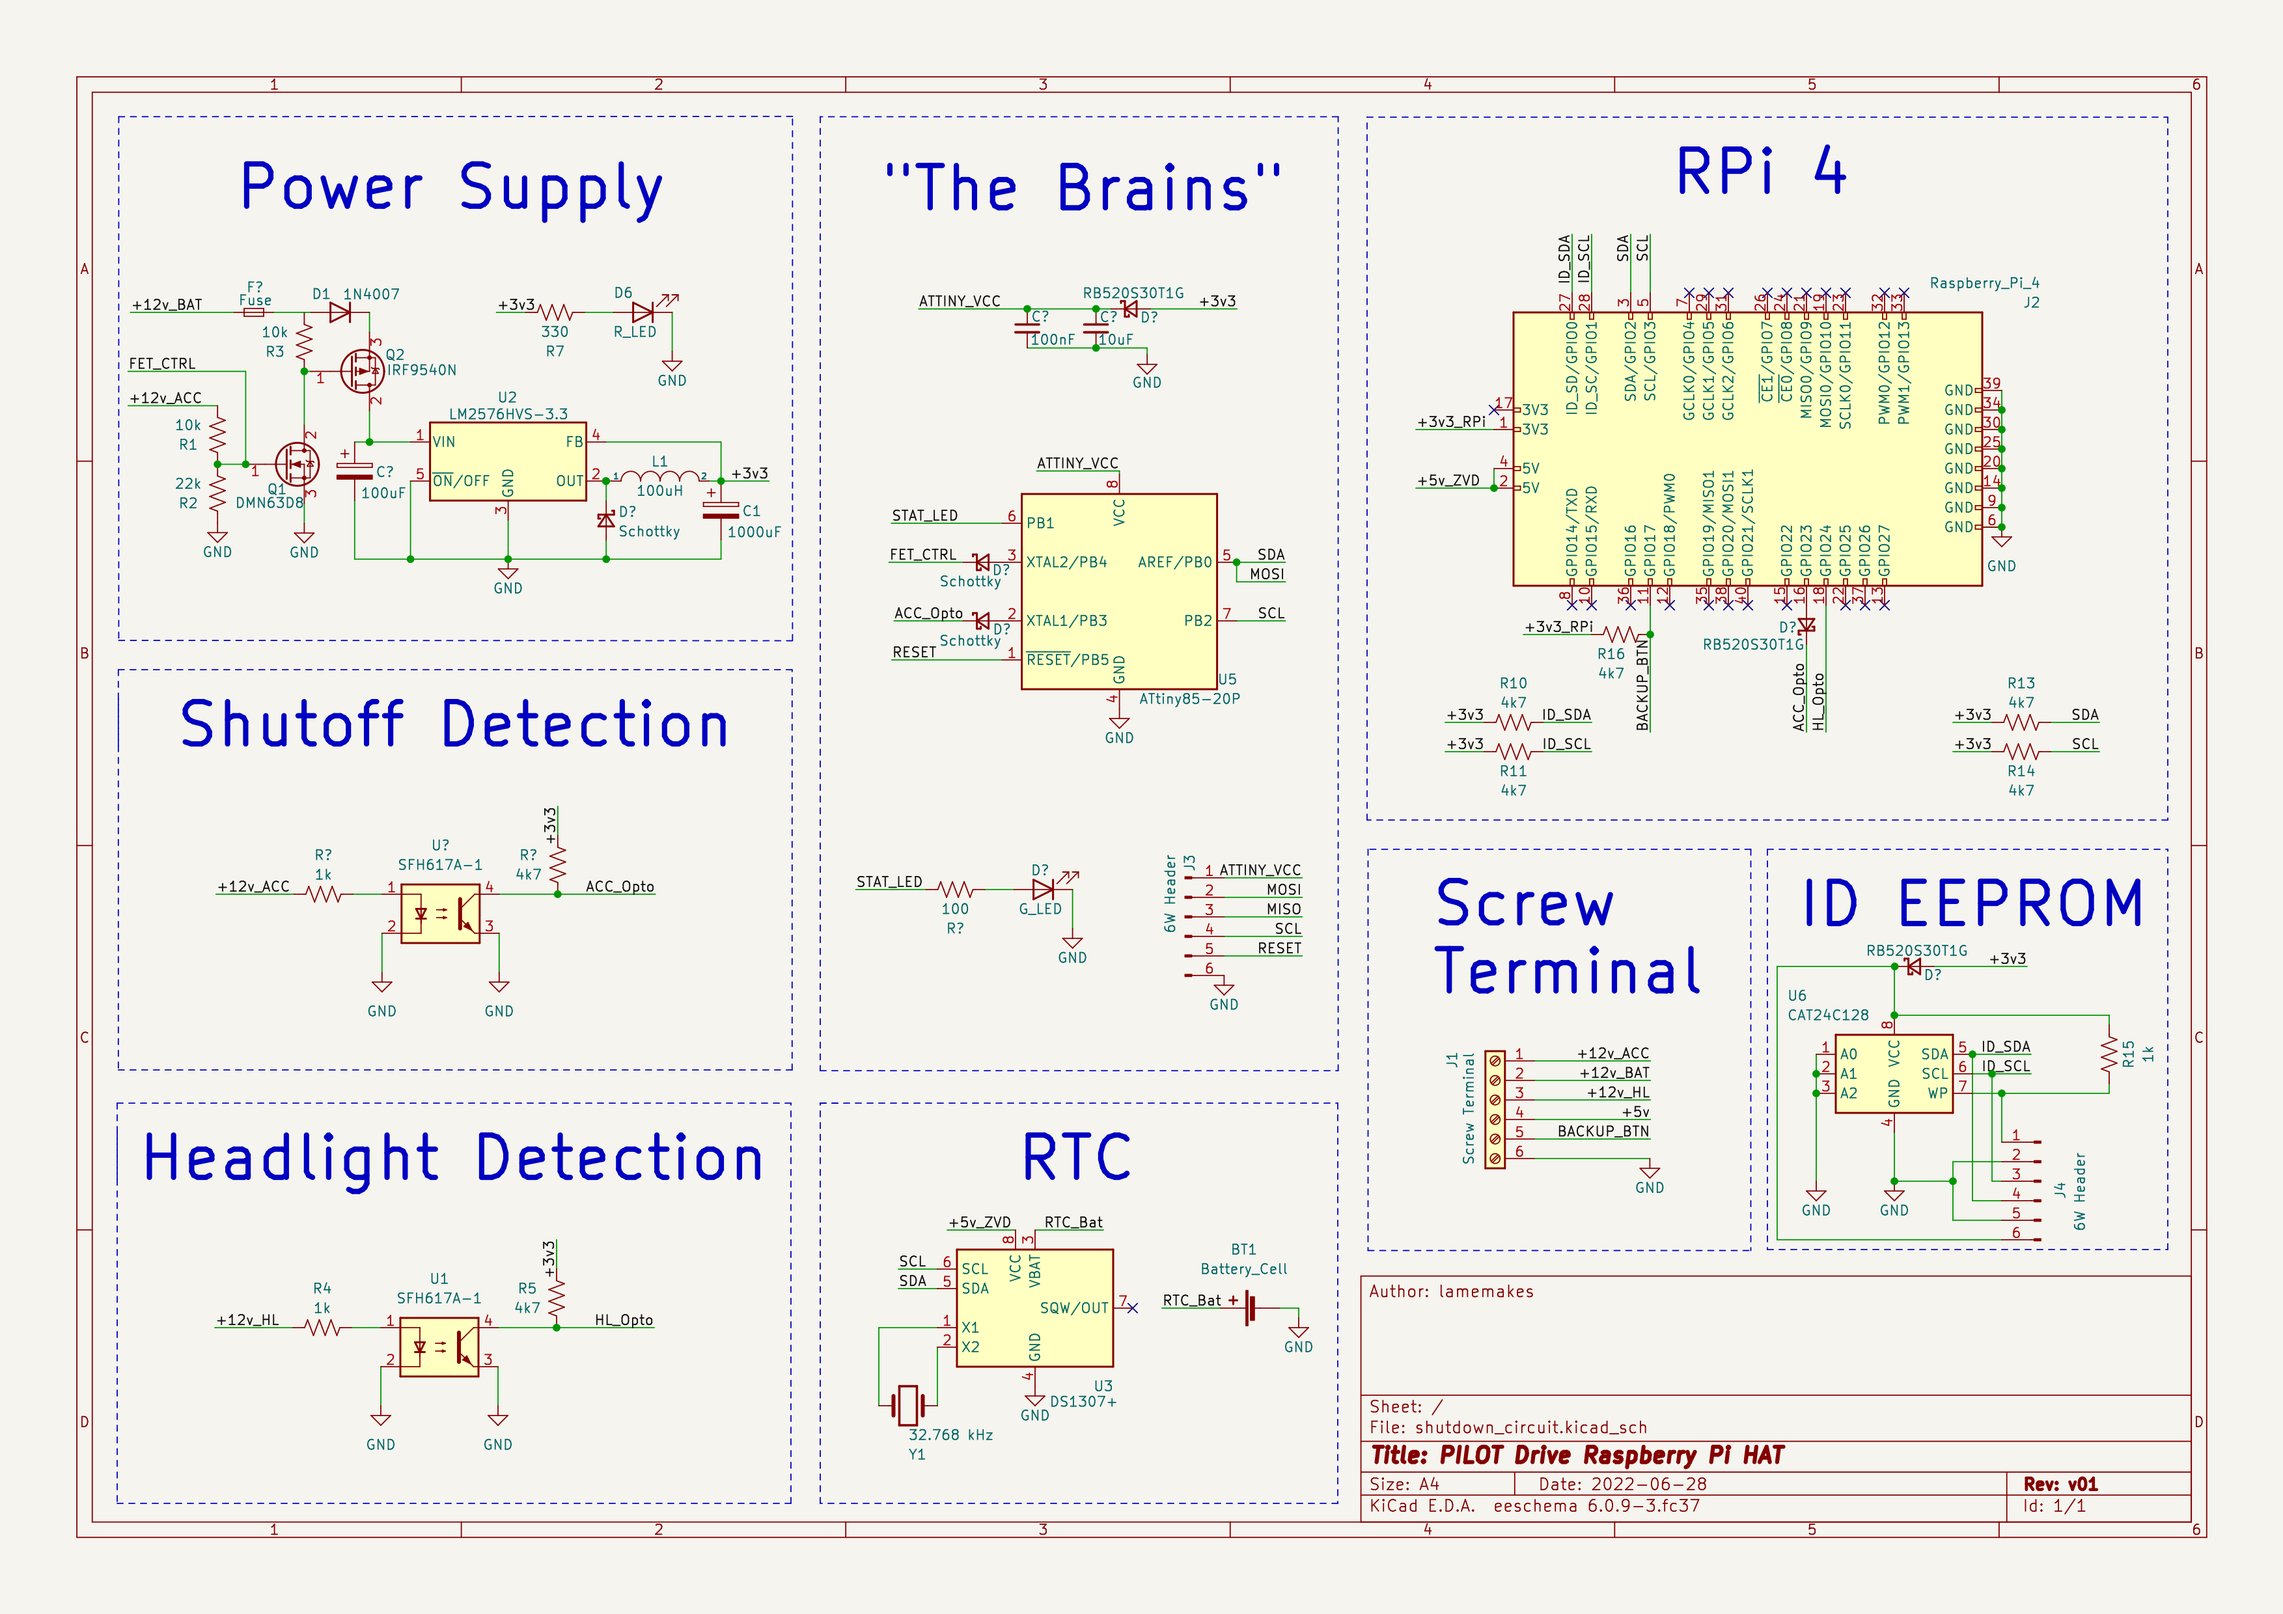
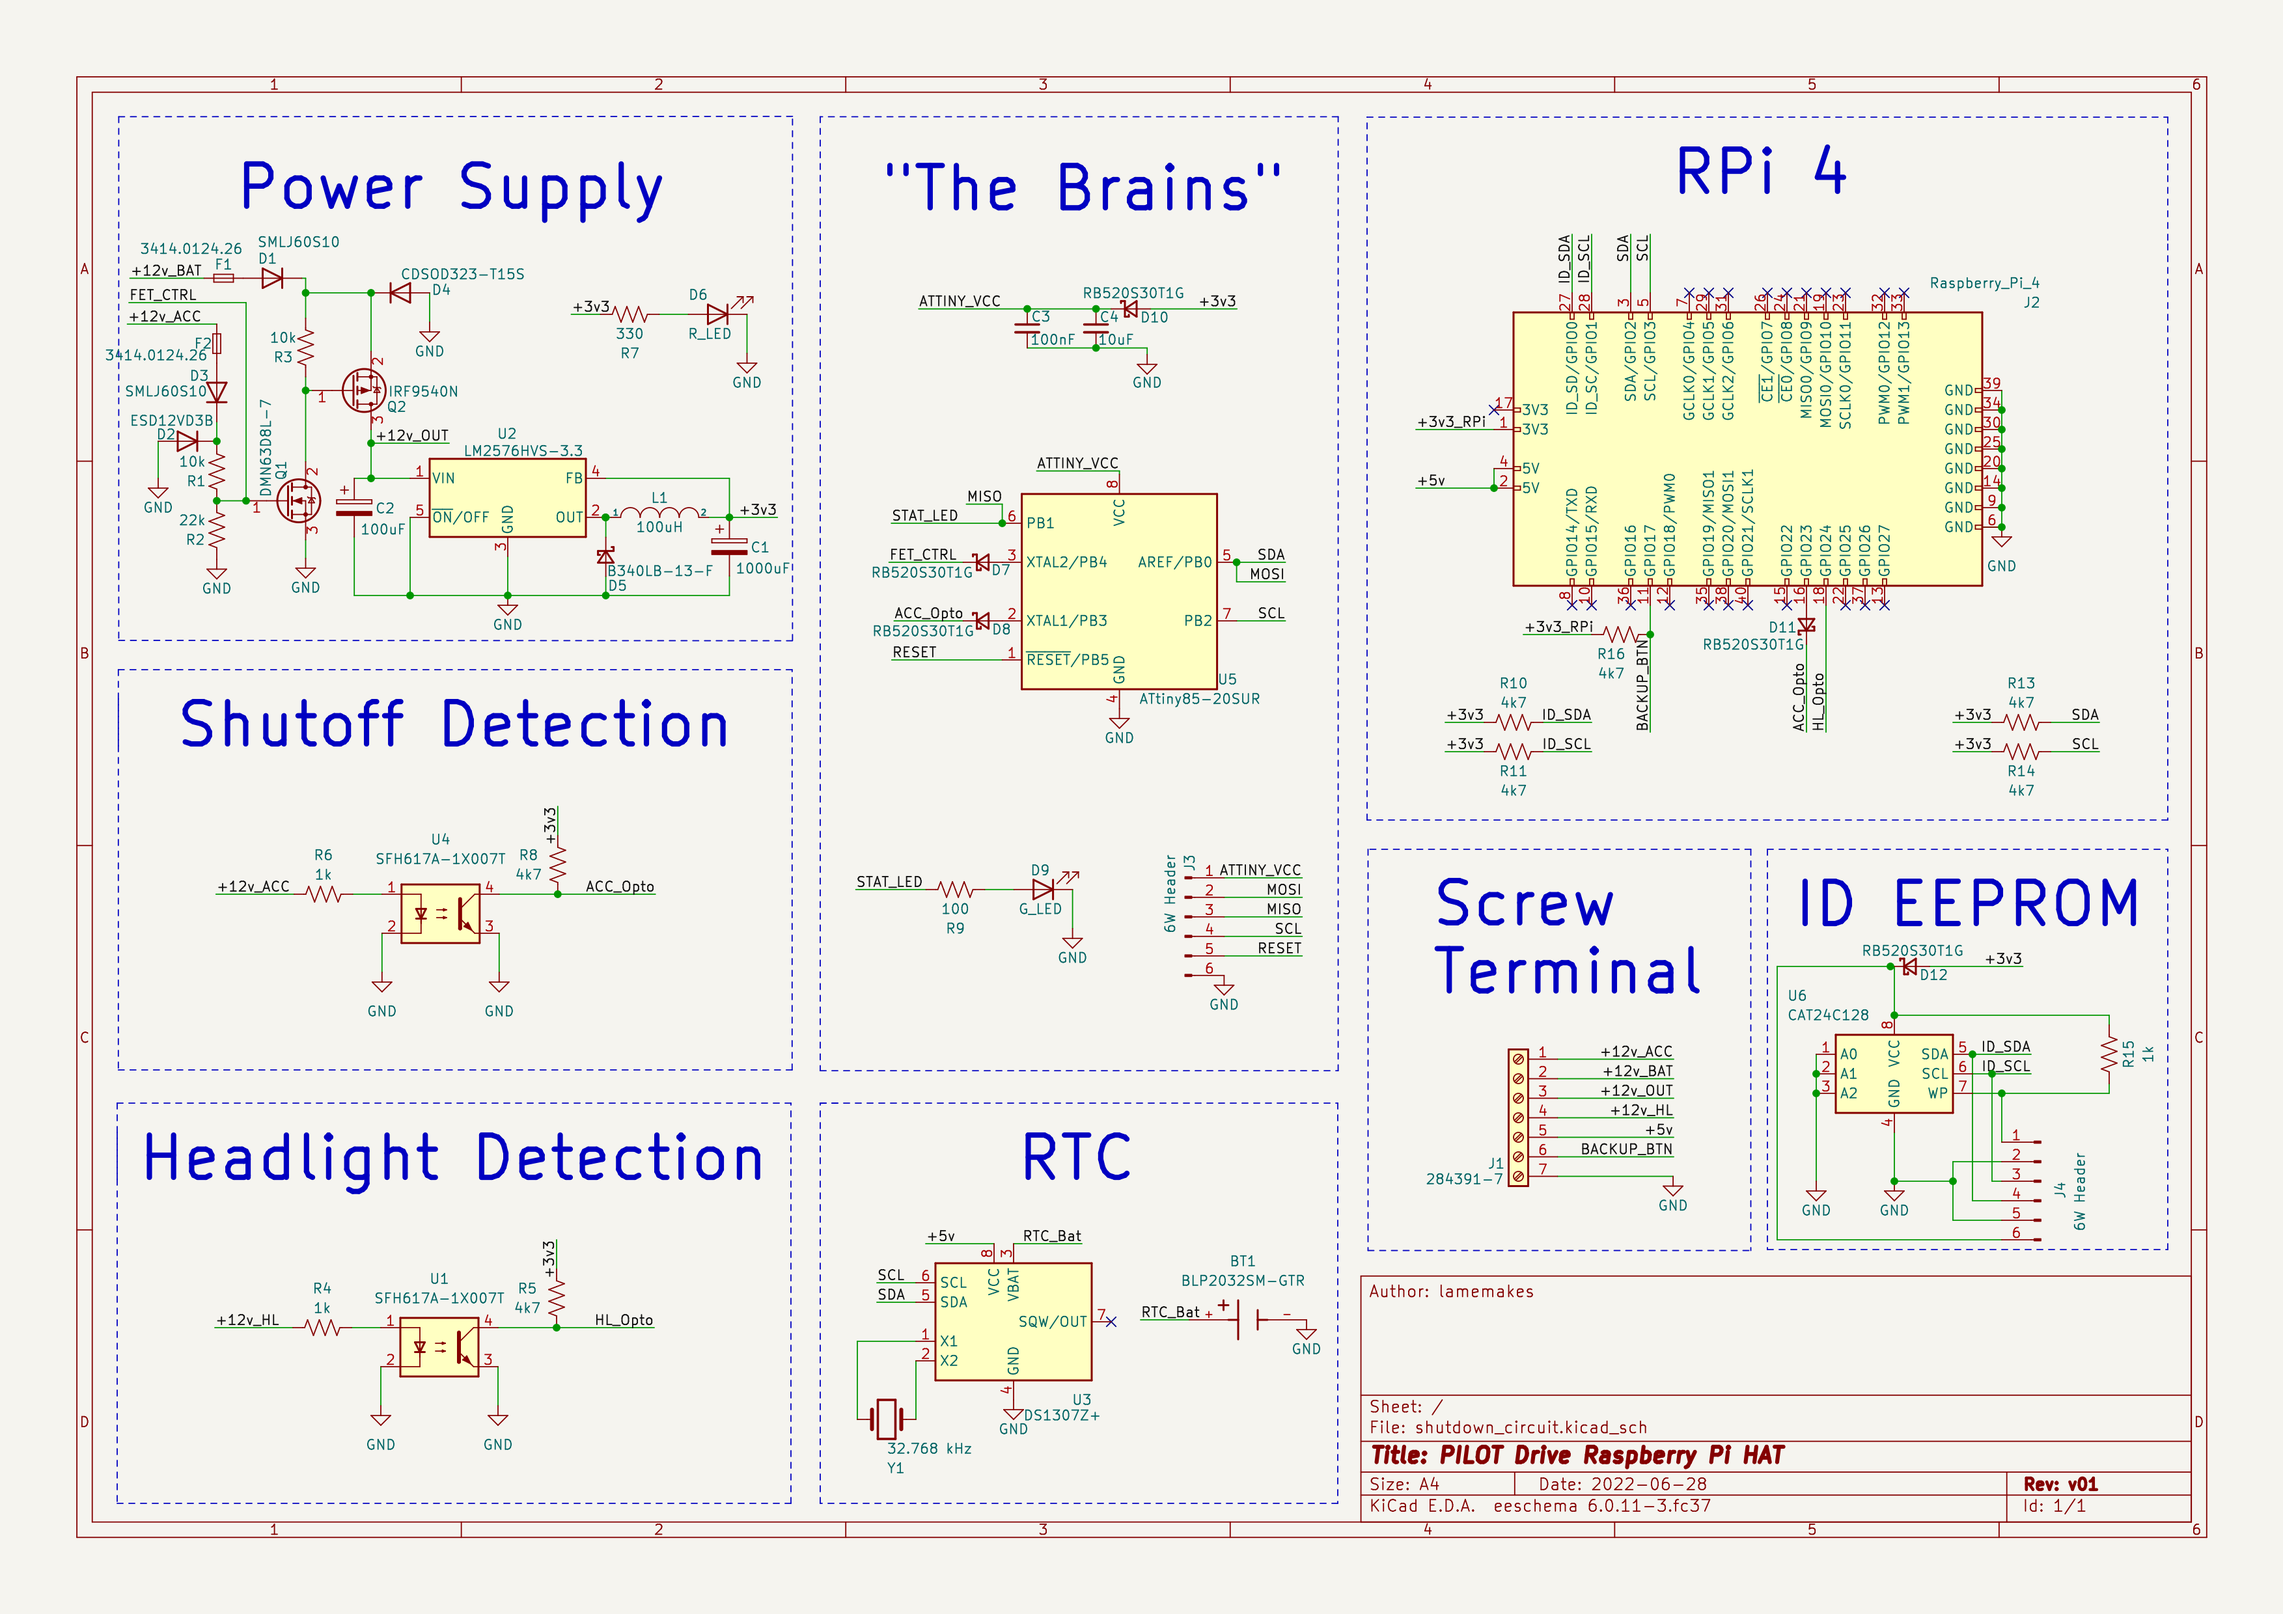
Updated photos & README for MKII

diff --git a/README.md b/README.md
@@ -21,16 +21,20 @@ The original MKI HAT came & went. I would call it about 50% functional - as it k
 - Needed decoupling caps!
 - Switching the entire ground via an N-FET. Speaks for itself.
 - Needed TVS diodes!
- 
-_Fab'd MKI PCBs_
-![image](images/PILOT_Drive_HAT_MKI.jpg)
+
 
 # HAT MKII
 
-This HAT has yet to be fab'd or even be arranged into a PCB file (but has been fully breadboard tested!). This will certainly be coming at the latest of March, as it needs to be ready for the Syracuse Maker Faire! KiCad files can be found in the "hardware" directory.
+The MKII prototype was fab'd by PCBWAY, and so far has proven to be fully functional! The new improvements did volumes for the usablity, debugging, and protection of the circuit & the Pi. If you're interested, come see it's debut at the 2023 Syracuse Maker Faire on April 1st!
 
 _The Schematic of the HAT MKII_
 ![image](images/schematic.png)
+
+_Fresh MKII proto boards_
+![image](images/HAT_Boards-MKII-Proto.jpg)
+
+_Populated MKII proto board_
+![image](images/HAT_Populated-MKII-Proto.jpg)
 
 ## ATtiny85 Code
 
@@ -70,7 +74,8 @@ At the time of writing, this script will seemingly fail, as it can't recieve a p
 
 
 ## NOTES:
-- The PILOT Drive HAT is a **MAJOR** WIP! More will come soon.
+
 - If building the HAT, "ID EEPROM" is recommended by Raspberry Pi [Hat Standards](https://github.com/raspberrypi/hats/blob/master/designguide.md) but aren't required to make the circuit function.
 - The schematic's +5v screw terminal in refers to an external 12v to 5v buck converter. 
-- KiCad library files are coming, along with 3D files for the components. 
+- KiCad library files are coming, along with 3D files for the components.
+- If you're building this HAT or something similar, reach out! Would love to hear your stories.
